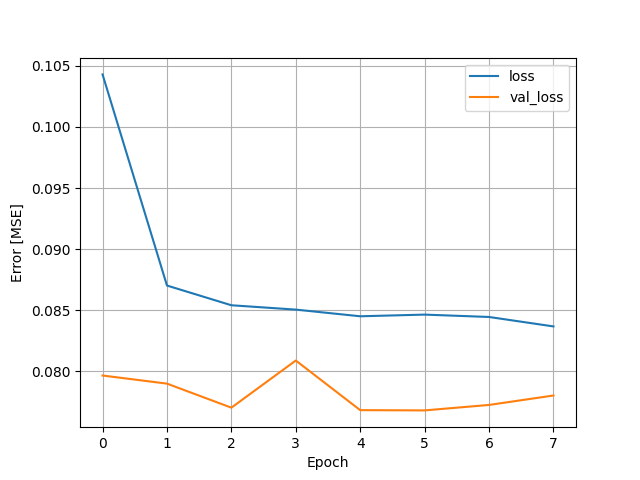
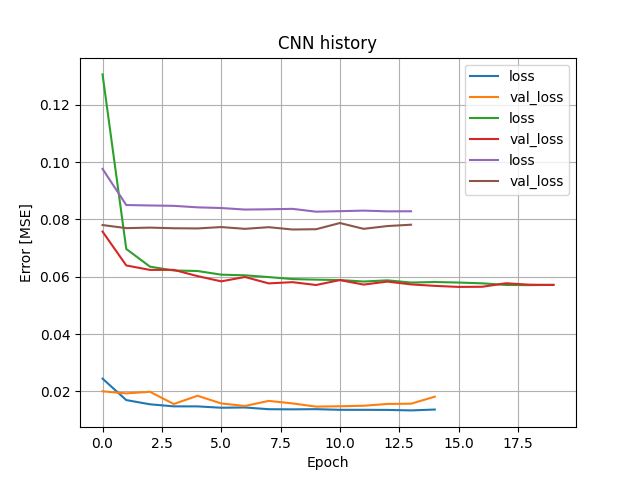
add simple one-dim prediction

diff --git a/scripts/train_tdnn.py b/scripts/train_tdnn.py
@@ -6,6 +6,8 @@ from libs.common import load_sequence_dataset
 from libs.common import WindowGenerator
 
 
+SAVEPATH = "plots/modelling/"
+
 dataset = load_sequence_dataset()
 
 n = len(dataset)
@@ -29,7 +31,6 @@ for example_inputs, example_labels in tiny_narrow_window.train.take(1):
     print(f'Labels shape (batch, time, features): {example_labels.shape}')
 
 
-SAVEPATH = "plots/modelling/"
 tiny_narrow_window.plot()
 plt.savefig(SAVEPATH + "tiny_narrow_window.png")
 # plt.title("Given 30 days as input, predict the 31st day.")
@@ -39,7 +40,7 @@ plt.savefig(SAVEPATH + "tiny_narrow_window.png")
 ### MODEL SETTINGS
 MAX_EPOCHS = 20
 
-def compile_and_fit(model, window, patience=2):
+def compile_and_fit(model, window, patience=5):
     early_stopping = tf.keras.callbacks.EarlyStopping(monitor='val_loss',
                                                       patience=patience,
                                                       mode='min')
@@ -53,6 +54,19 @@ def compile_and_fit(model, window, patience=2):
                         callbacks=[early_stopping])
     return history
 
+
+def plot_loss(history, title):
+    plt.plot(history.history['loss'], label='loss')
+    plt.plot(history.history['val_loss'], label='val_loss')
+    plt.title(title)
+    plt.xlabel('Epoch')
+    plt.ylabel('Error [MSE]')
+    plt.legend()
+    plt.grid(True)
+
+
+val_performance = {}
+performance = {}
 
 ### TDNN MODEL
 multi_step_dense = tf.keras.Sequential([
@@ -69,24 +83,10 @@ multi_step_dense = tf.keras.Sequential([
 print('Input shape:', tiny_narrow_window.example[0].shape)
 print('Output shape:', multi_step_dense(tiny_narrow_window.example[0]).shape)
 
-
-val_performance = {}
-performance = {}
-
-
 history = compile_and_fit(multi_step_dense, tiny_narrow_window)
 
-def plot_loss(history):
-    plt.close()
-    plt.plot(history.history['loss'], label='loss')
-    plt.plot(history.history['val_loss'], label='val_loss')
-    plt.xlabel('Epoch')
-    plt.ylabel('Error [MSE]')
-    plt.legend()
-    plt.grid(True)
-
-
-plot_loss(history)
+plt.close()
+plot_loss(history, title="TDNN - history")
 plt.savefig(SAVEPATH + "TDNN_history.png")
 # plt.show()
 
@@ -97,12 +97,35 @@ tiny_narrow_window.plot(multi_step_dense)
 plt.savefig(SAVEPATH + "TDNN_prediction.png")
 # plt.show()
 
+### simpleRNN
+rnn_model = tf.keras.models.Sequential([
+    # Shape [batch, time, features] => [batch, time, lstm_units]
+    tf.keras.layers.SimpleRNN(32, return_sequences=True),
+    # Shape => [batch, time, features]
+    tf.keras.layers.Dense(units=1)
+])
+
+print('Input shape:', tiny_narrow_window.example[0].shape)
+print('Output shape:', rnn_model(tiny_narrow_window.example[0]).shape)
+
+history = compile_and_fit(rnn_model, tiny_narrow_window)
+
+plt.close()
+plot_loss(history, "RNN history")
+plt.savefig(SAVEPATH + "RNN_history.png")
+
+val_performance['RNN'] = rnn_model.evaluate(tiny_narrow_window.val)
+performance['RNN'] = rnn_model.evaluate(tiny_narrow_window.test, verbose=0)
+
+tiny_narrow_window.plot(rnn_model)
+plt.savefig(SAVEPATH + "prediction/RNN_prediction.png")
+
 ### CNN MODEL
 conv_model = tf.keras.Sequential([
-    tf.keras.layers.Conv1D(filters=32,
+    tf.keras.layers.Conv1D(filters=64,
                            kernel_size=(3,),
                            activation='relu'),
-    tf.keras.layers.Dense(units=16, activation='relu'),
+    tf.keras.layers.Dense(units=32, activation='relu'),
     tf.keras.layers.Dense(units=1),
 ])
 print("Conv model on `conv_window`")
@@ -111,15 +134,16 @@ print('Output shape:', conv_model(tiny_narrow_window.example[0]).shape)
 
 history = compile_and_fit(conv_model, tiny_narrow_window)
 plt.close()
-plot_loss(history)
+plot_loss(history, "CNN history")
 plt.savefig(SAVEPATH + "CNN_history.png")
 # plt.show()
 
-val_performance['CNN_prediction'] = conv_model.evaluate(tiny_narrow_window.val)
-performance['CNN_prediction'] = conv_model.evaluate(tiny_narrow_window.test, verbose=0)
+val_performance['CNN'] = conv_model.evaluate(tiny_narrow_window.val)
+performance['CNN'] = conv_model.evaluate(tiny_narrow_window.test, verbose=0)
+
 
 tiny_narrow_window.plot(conv_model)
-plt.savefig(SAVEPATH + "CNN_prediction.png")
+plt.savefig(SAVEPATH + "prediction/CNN_prediction.png")
 # plt.show()
 
 ### LSTM MODEL
@@ -137,6 +161,35 @@ print('Output shape:', lstm_model(tiny_narrow_window.example[0]).shape)
 
 
 history = compile_and_fit(lstm_model, tiny_narrow_window)
+plt.close()
+plot_loss(history, "LSTM history")
+plt.savefig(SAVEPATH + "LSTM_history.png")
 
 val_performance['LSTM'] = lstm_model.evaluate(tiny_narrow_window.val)
 performance['LSTM'] = lstm_model.evaluate(tiny_narrow_window.test, verbose=0)
+tiny_narrow_window.plot(lstm_model)
+plt.savefig(SAVEPATH + "prediction/LSTM_prediction.png")
+
+
+
+### Performance
+import numpy as np
+plt.close()
+plt.close()
+plt.close()
+plt.close()
+plt.figure(figsize=(12, 8))
+x = np.arange(len(performance))
+width = 0.3
+metric_name = 'mean_absolute_error'
+metric_index = lstm_model.metrics_names.index('mean_absolute_error')
+val_mae = [v[metric_index] for v in val_performance.values()]
+test_mae = [v[metric_index] for v in performance.values()]
+
+plt.ylabel('mean_absolute_error [Close]')
+plt.bar(x - 0.17, val_mae, width, label='Validation')
+plt.bar(x + 0.17, test_mae, width, label='Test')
+plt.xticks(ticks=x, labels=performance.keys(),
+           rotation=45)
+_ = plt.legend()
+plt.savefig(SAVEPATH + "performance.png")
